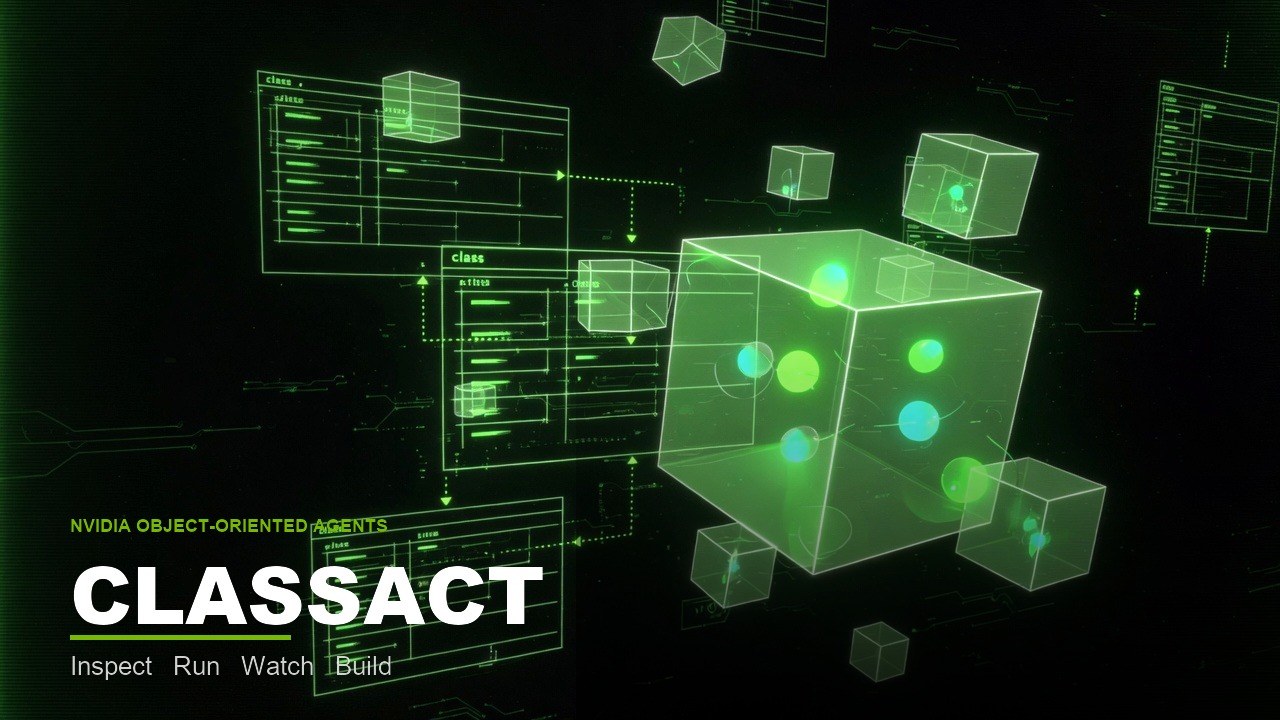
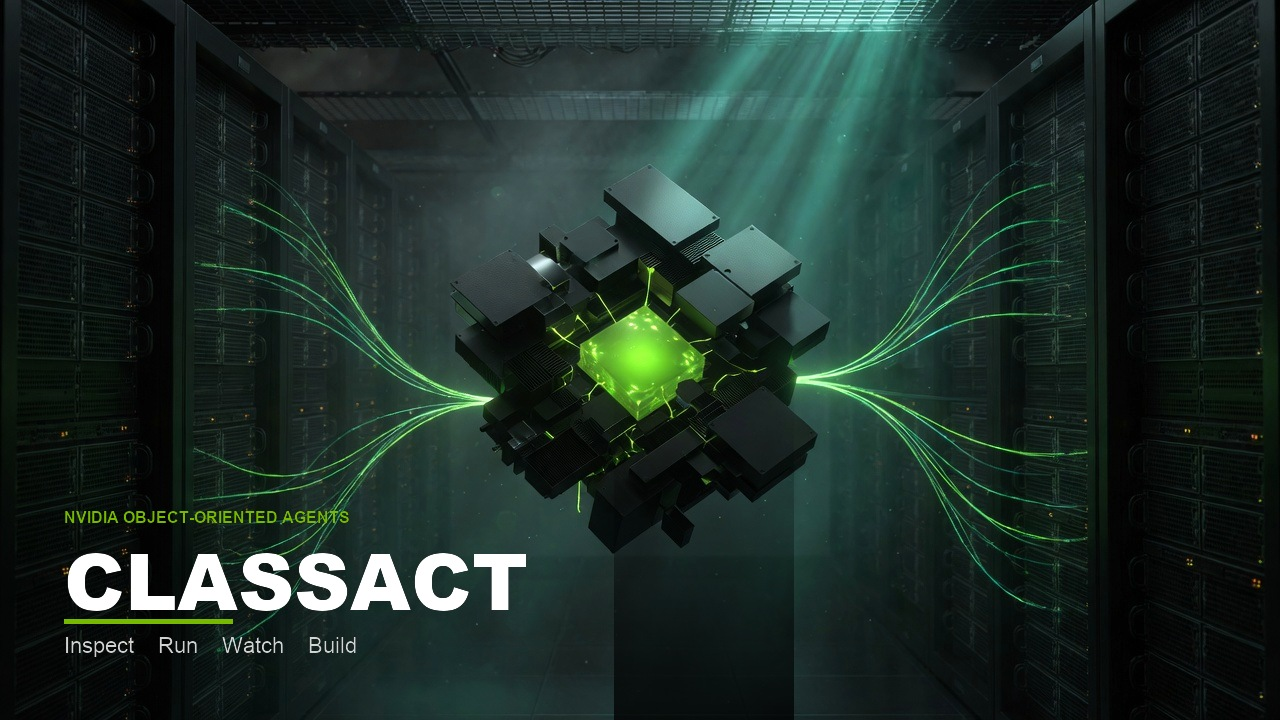
Replace the ClassAct header with a cinematic data-center plate.
Matches the Nemotron SFT banner: racks, volumetric green light, floating object. CLASSACT wordmark is set in type, not generated.

diff --git a/static/index.html b/static/index.html
@@ -9,7 +9,7 @@
 <body>
   <div class="scan" aria-hidden="true"></div>
   <header class="hero">
-    <img src="/static/header.jpg" alt="ClassAct — inspect, run, watch, and build NVIDIA Object-Oriented Agents" class="banner" />
+    <img src="/static/header.jpg?v=0.1.5" alt="ClassAct — inspect, run, watch, and build NVIDIA Object-Oriented Agents" class="banner" />
   </header>
 
   <div class="statusbar">

diff --git a/static/docs.html b/static/docs.html
@@ -9,7 +9,7 @@
 <body class="doc-body">
   <div class="scan" aria-hidden="true"></div>
   <header class="hero compact">
-    <img src="/static/header.jpg" alt="" class="banner" />
+    <img src="/static/header.jpg?v=0.1.5" alt="" class="banner" />
   </header>
   <div class="statusbar">
     <span class="brand">CLASSACT</span>
